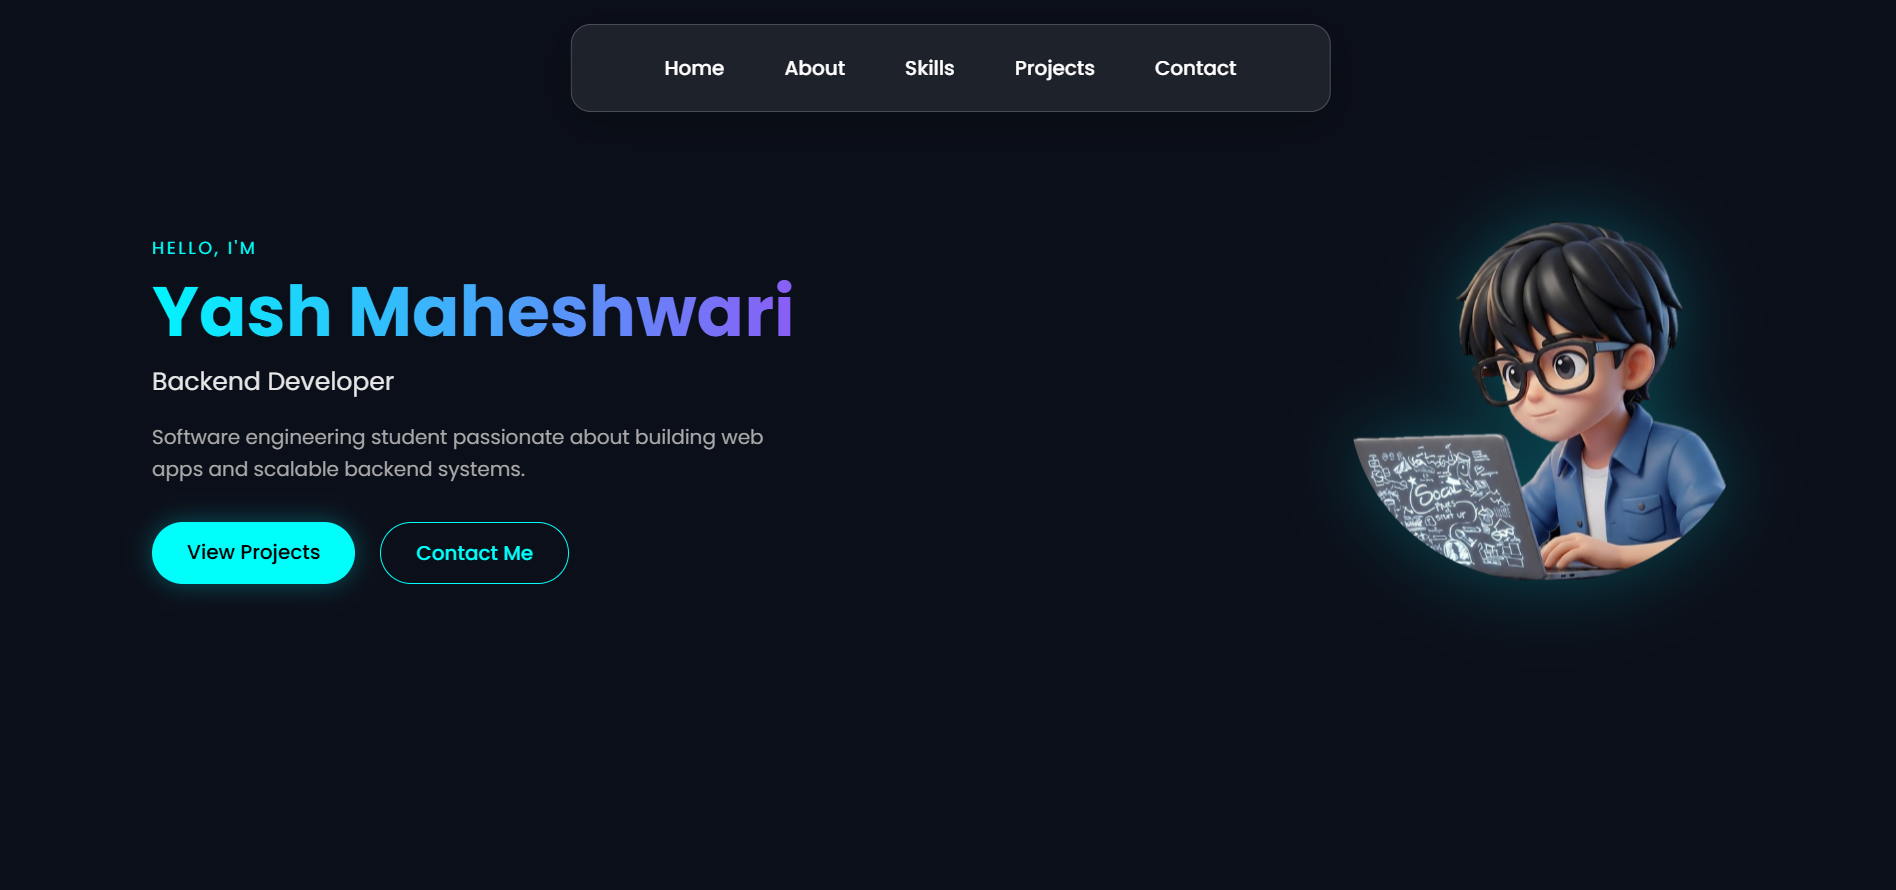
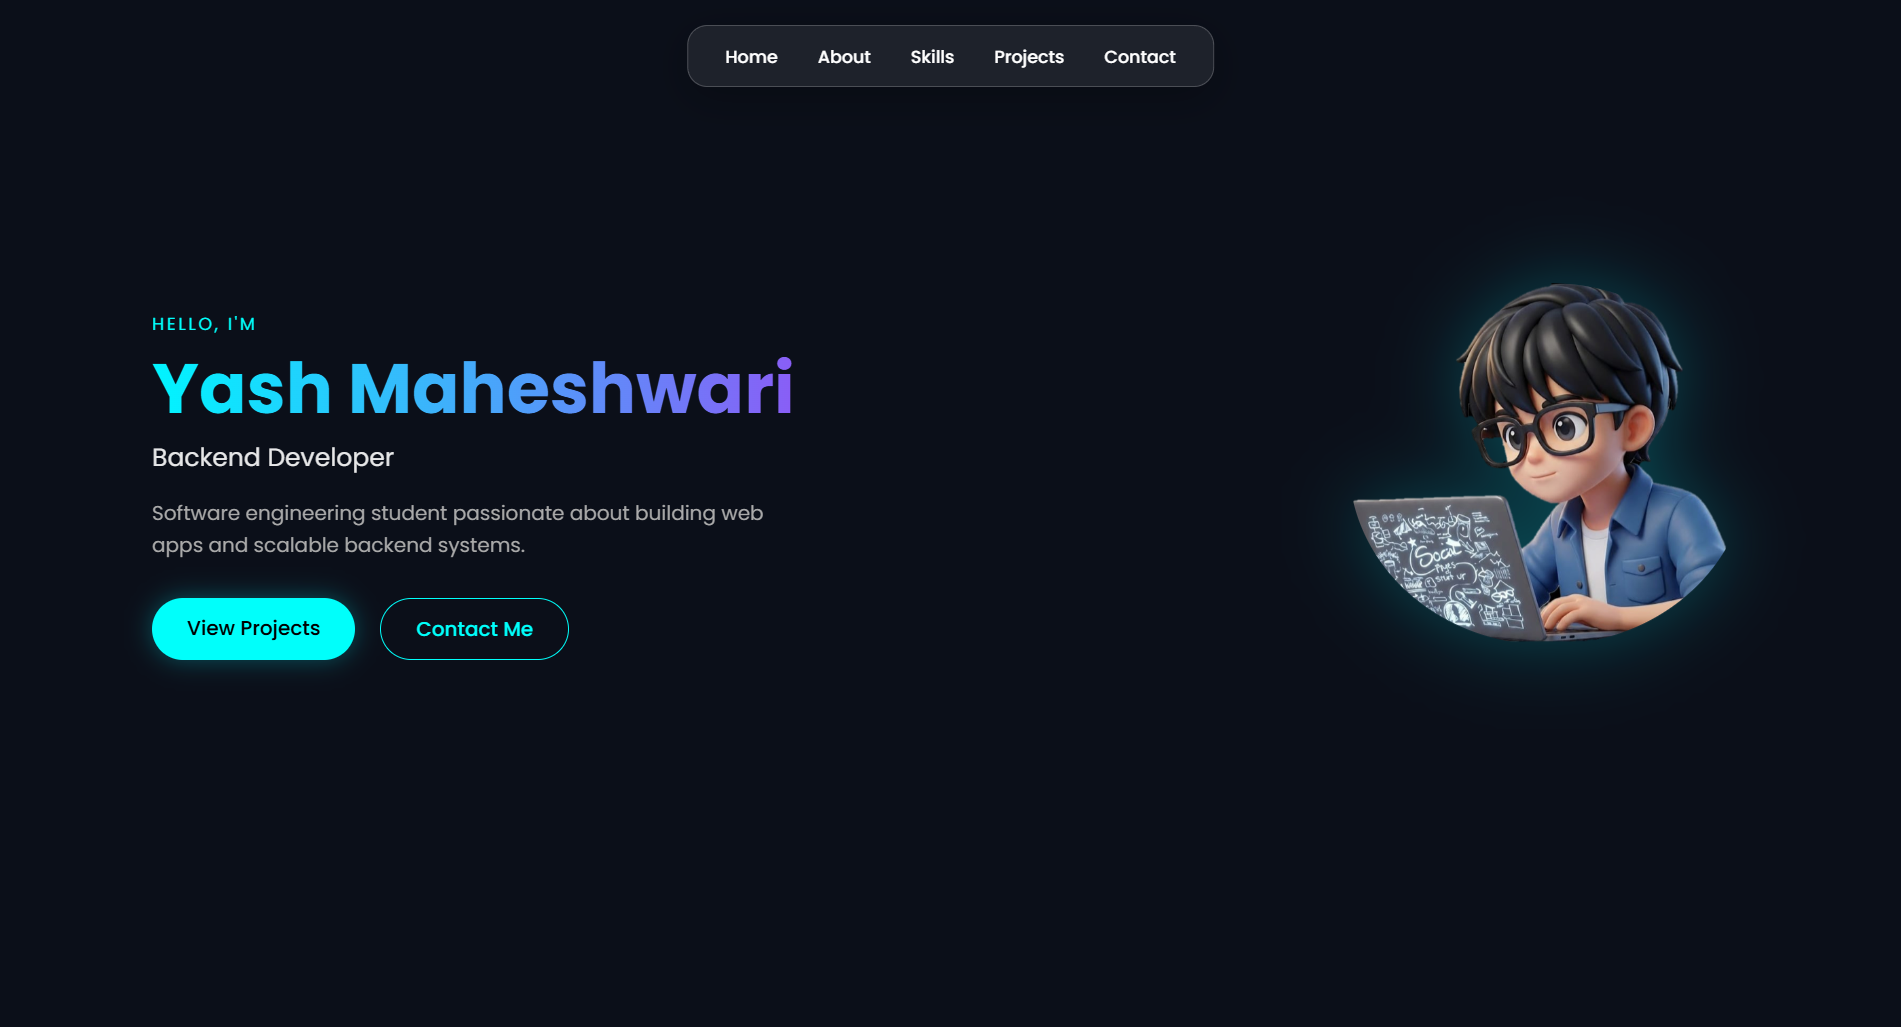
Improving responsiveness of v1

diff --git a/style.css b/style.css
@@ -19,22 +19,26 @@ body{
     color:var(--text);
 }
 
-/* NAVBAR */
+/* RESPONSIVE GLASS NAVBAR */
 
-.navbar{
+.navbar {
     position: fixed;
     top: 20px;
     left: 50%;
     transform: translateX(-50%);
 
     display: flex;
-    list-style: none;
     justify-content: center;
-    gap: 3em;
     align-items: center;
+    flex-wrap: wrap;
 
-    height: 70px;
-    width: 40%;
+    list-style: none;
+
+    padding: 12px 30px;
+    gap: 2rem;
+
+    width: max-content;
+    max-width: 92%;
 
     background: rgba(255, 255, 255, 0.08);
     backdrop-filter: blur(12px);
@@ -48,19 +52,23 @@ body{
     z-index: 999;
 }
 
+/* Links */
 
 .nav-link{
     position: relative;
     text-decoration: none;
     color: var(--text);
     font-weight: 500;
-    transition: transform 0.3s ease, color 0.3s ease;
+    font-size: 14px;
+    transition: transform .3s ease, color .3s ease;
 }
 
 .nav-link:hover{
     color: var(--accent);
-    transform: translateY(-6px);
+    transform: translateY(-4px);
 }
+
+/* underline */
 
 .nav-link::after{
     content: "";
@@ -70,12 +78,29 @@ body{
     width: 0%;
     height: 2px;
     background: var(--accent);
-    transition: width 0.3s ease;
+    transition: width .3s ease;
 }
 
 .nav-link:hover::after{
     width: 100%;
 }
+
+/* MOBILE OPTIMIZATION */
+
+@media(max-width:600px){
+
+    .navbar{
+        top: 10px;
+        padding: 10px 18px;
+        gap: 1.2rem;
+        border-radius: 14px;
+    }
+
+    .nav-link{
+        font-size: 13px;
+    }
+}
+
 
 /* HERO SECTION */
 
@@ -212,6 +237,11 @@ body{
 
     .hero-img img {
         width: 240px;
+    }
+}
+@media(max-width:600px){
+    #hero {
+        padding-top: 10vh;
     }
 }
 
